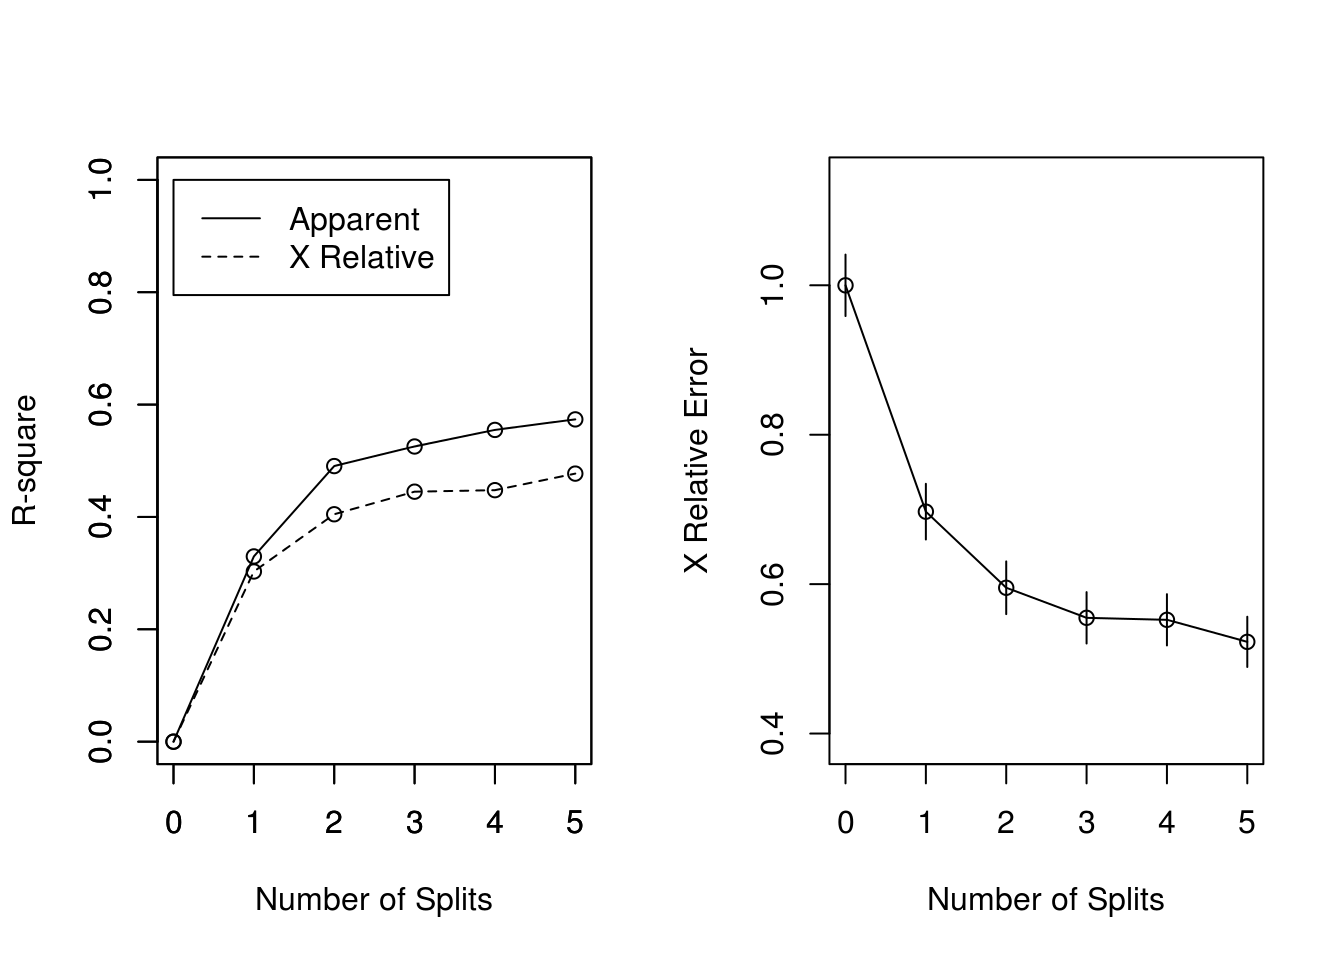
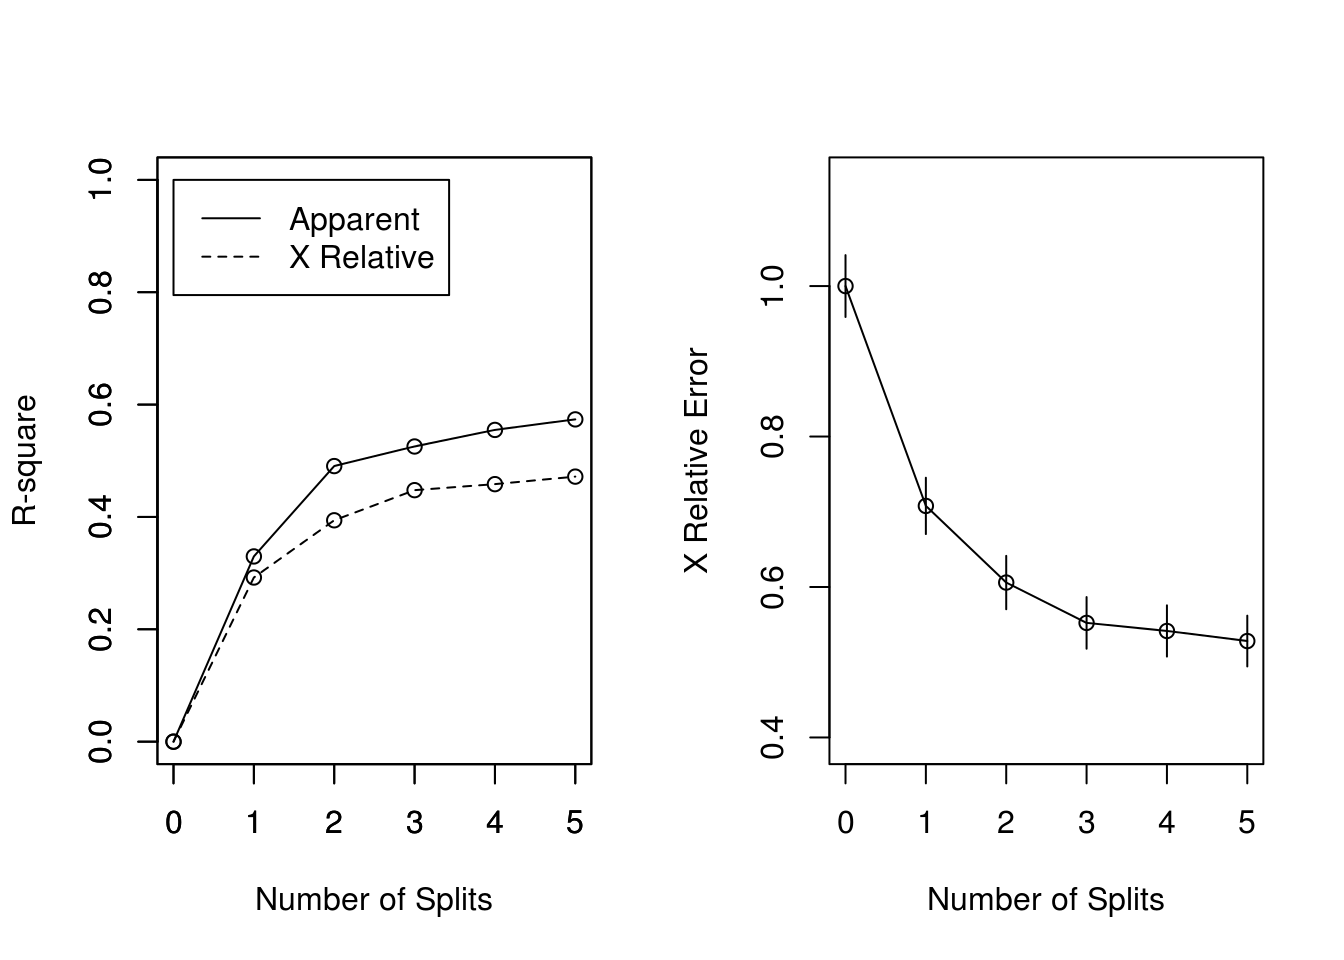
Add files via upload

diff --git a/easy.html b/easy.html
@@ -364,15 +364,15 @@ tree &lt;- rpart(formula = form, data = train, na.action = na.rpart, control = c
 ## 
 ##          CP nsplit rel error  xerror     xstd
 ## 1  0.329759      0   1.00000 1.00000 0.041108
-## 2  0.160858      1   0.67024 0.69705 0.037245
-## 3  0.034853      2   0.50938 0.59517 0.035278
-## 4  0.029491      3   0.47453 0.55496 0.034389
-## 5  0.018767      4   0.44504 0.55228 0.034327
-## 6  0.017426      5   0.42627 0.52279 0.033626
-## 7  0.016086      7   0.39142 0.53619 0.033950
-## 8  0.012511      9   0.35925 0.55228 0.034327
-## 9  0.010724     12   0.32172 0.57373 0.034813
-## 10 0.010000     15   0.28954 0.57373 0.034813</code></pre>
+## 2  0.160858      1   0.67024 0.70777 0.037431
+## 3  0.034853      2   0.50938 0.60590 0.035504
+## 4  0.029491      3   0.47453 0.55228 0.034327
+## 5  0.018767      4   0.44504 0.54155 0.034077
+## 6  0.017426      5   0.42627 0.52815 0.033756
+## 7  0.016086      7   0.39142 0.53887 0.034013
+## 8  0.012511      9   0.35925 0.53619 0.033950
+## 9  0.010724     12   0.32172 0.55228 0.034327
+## 10 0.010000     15   0.28954 0.55764 0.034450</code></pre>
 <p>Pruning the tree using cross validation to prevent overfitting, Thus inappropriate nodes are removed</p>
 <pre class="r"><code>pdtree&lt;- prune(tree, cp=tree$cptable[which.min(tree$cptable[,&quot;xerror&quot;]),&quot;CP&quot;])</code></pre>
 <p><img src="easy_files/figure-html/plot2-1.png" width="672" /></p>
@@ -392,11 +392,11 @@ tree &lt;- rpart(formula = form, data = train, na.action = na.rpart, control = c
 ## 
 ##         CP nsplit rel error  xerror     xstd
 ## 1 0.329759      0   1.00000 1.00000 0.041108
-## 2 0.160858      1   0.67024 0.69705 0.037245
-## 3 0.034853      2   0.50938 0.59517 0.035278
-## 4 0.029491      3   0.47453 0.55496 0.034389
-## 5 0.018767      4   0.44504 0.55228 0.034327
-## 6 0.017426      5   0.42627 0.52279 0.033626</code></pre>
+## 2 0.160858      1   0.67024 0.70777 0.037431
+## 3 0.034853      2   0.50938 0.60590 0.035504
+## 4 0.029491      3   0.47453 0.55228 0.034327
+## 5 0.018767      4   0.44504 0.54155 0.034077
+## 6 0.017426      5   0.42627 0.52815 0.033756</code></pre>
 <pre><code>## Warning in rsq.rpart(pdtree): may not be applicable for this method</code></pre>
 <p><img src="easy_files/figure-html/pred5-1.png" width="672" /></p>
 <p>Predicting the target class and calculating the missclassification error for pruned tree:</p>
@@ -496,6 +496,10 @@ is.error &lt;- is.lo | is.hi
 mn&lt;- mean(is.error)</code></pre>
 <p>The error is :</p>
 <pre><code>## [1] 0.2358104</code></pre>
+</div>
+<div id="reference" class="section level1">
+<h1>Reference</h1>
+<p><a href="https://cran.r-project.org/web/packages/rpart/rpart.pdf" class="uri">https://cran.r-project.org/web/packages/rpart/rpart.pdf</a><br> <a href="https://cran.r-project.org/web/packages/partykit/partykit.pdf" class="uri">https://cran.r-project.org/web/packages/partykit/partykit.pdf</a><br> <a href="https://cran.r-project.org/web/packages/trtf/trtf.pdf" class="uri">https://cran.r-project.org/web/packages/trtf/trtf.pdf</a></p>
 </div>
 
 
